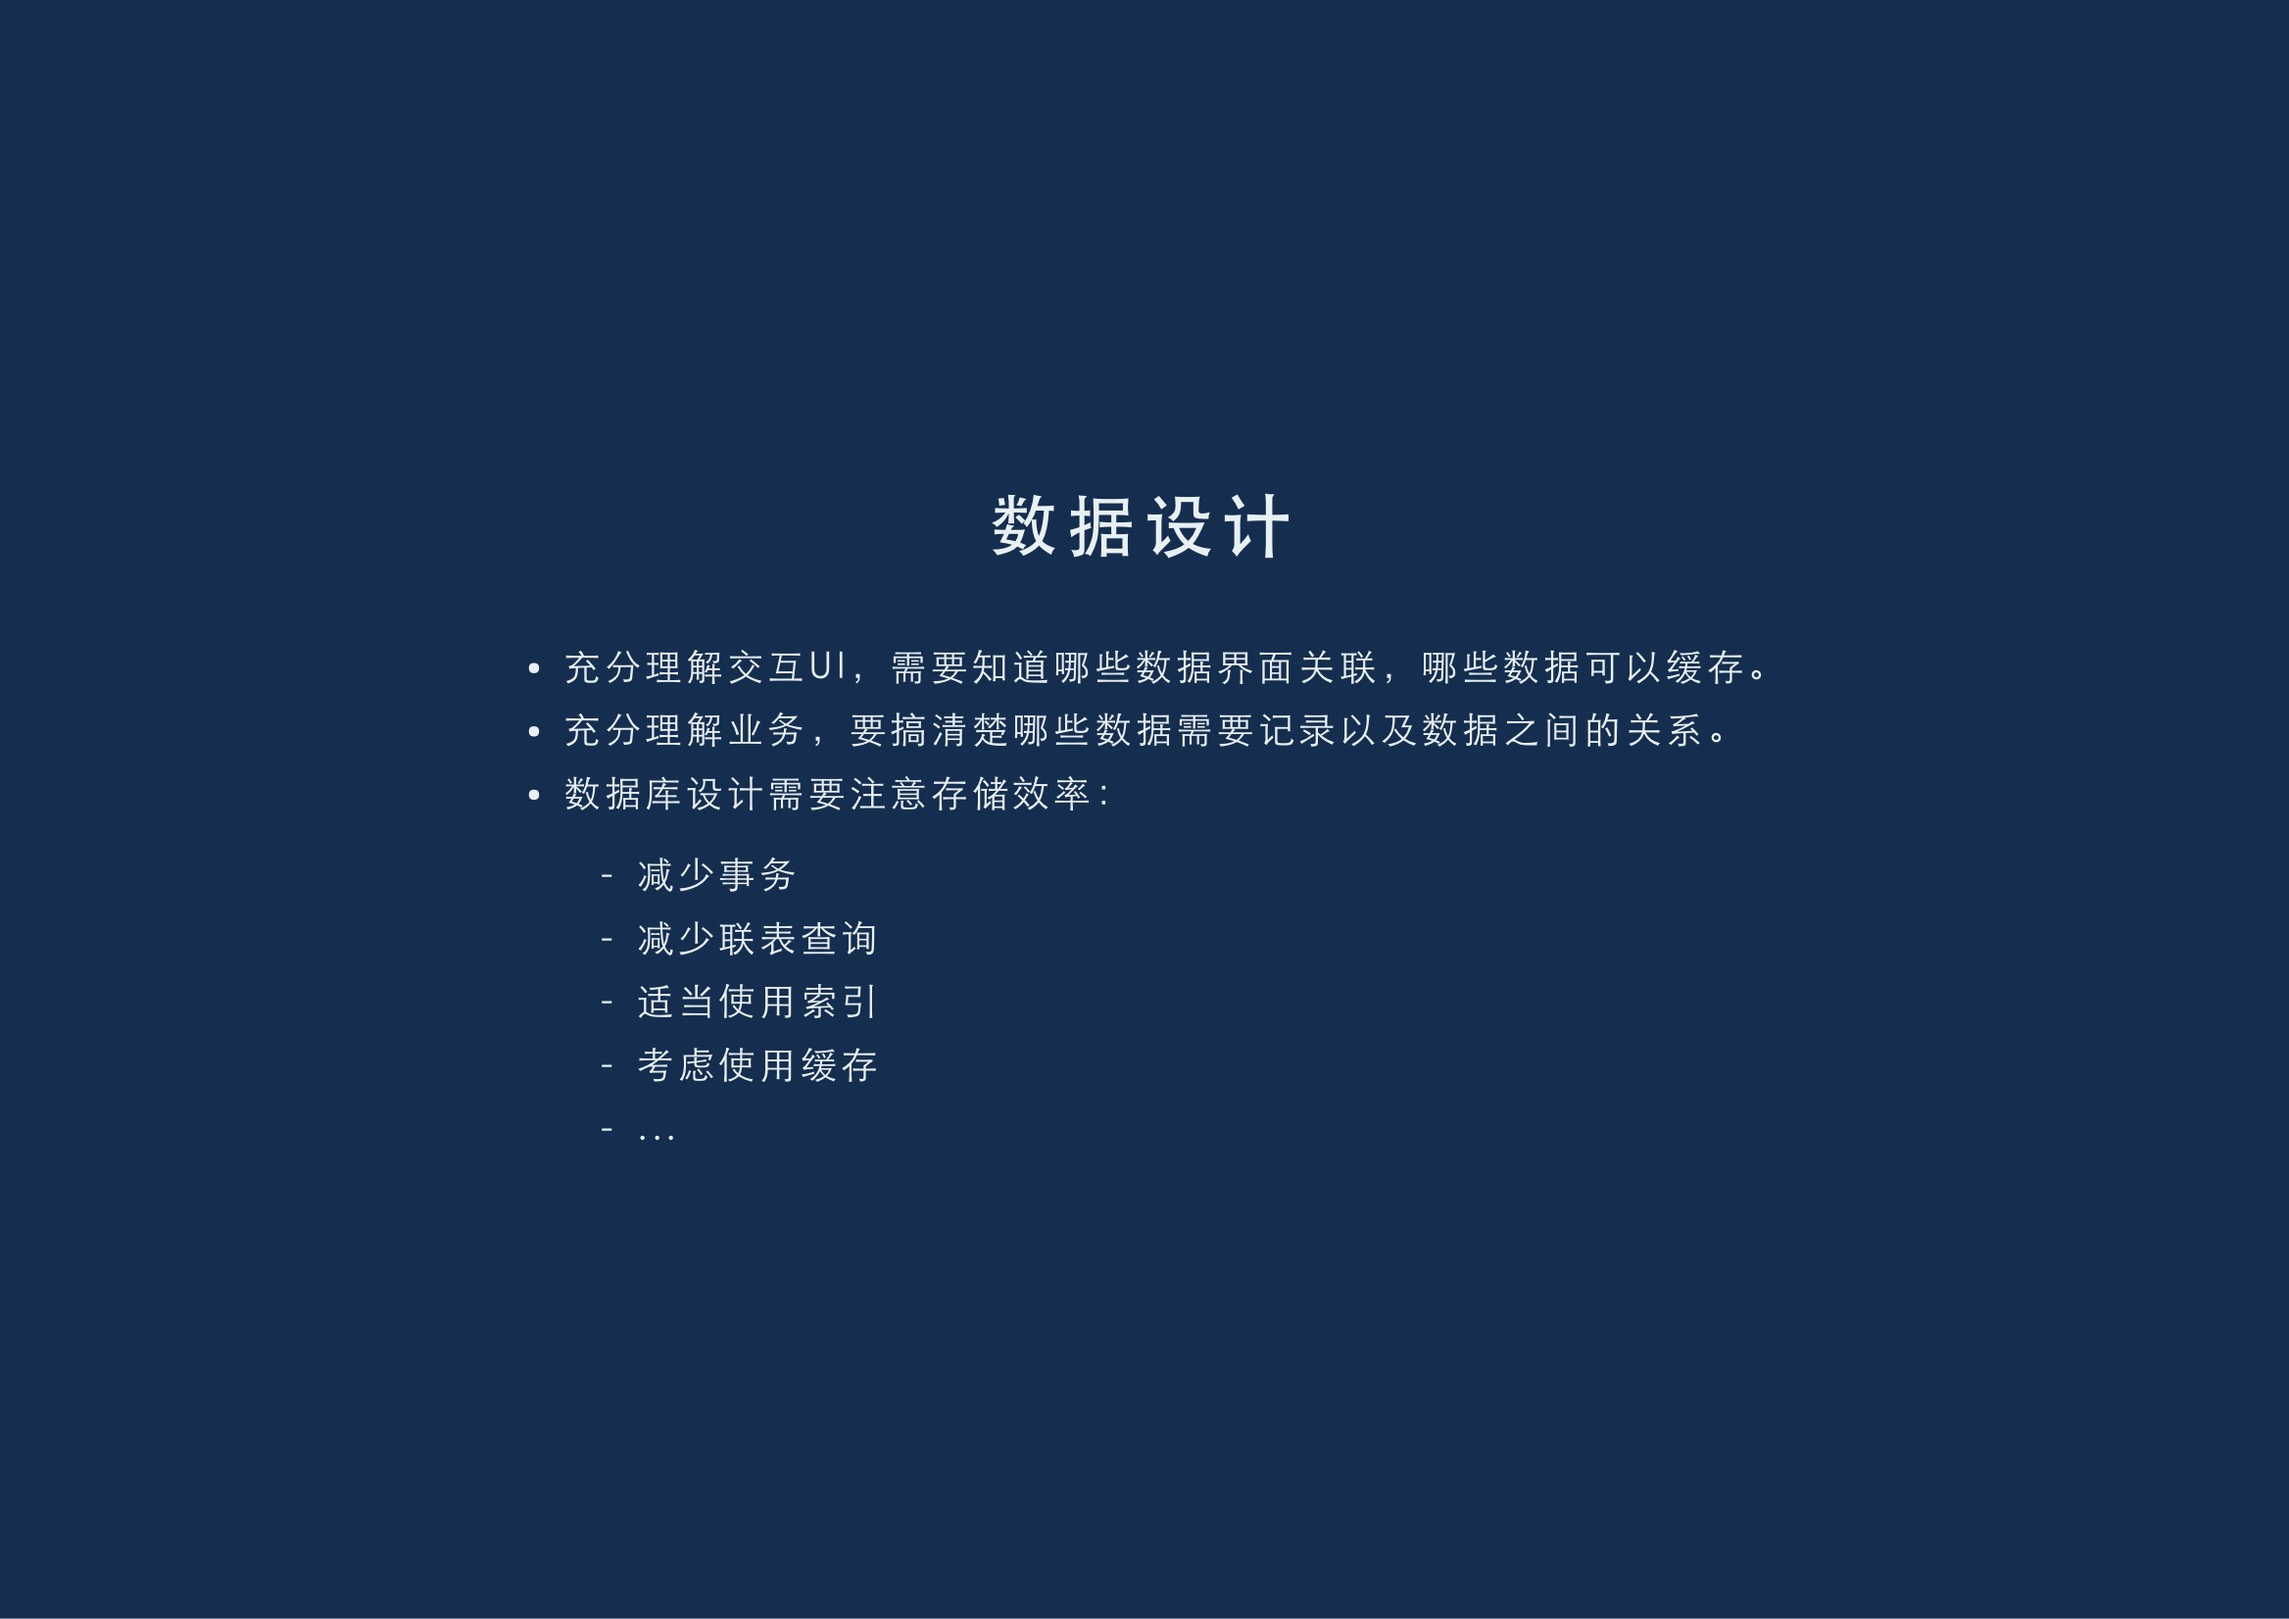
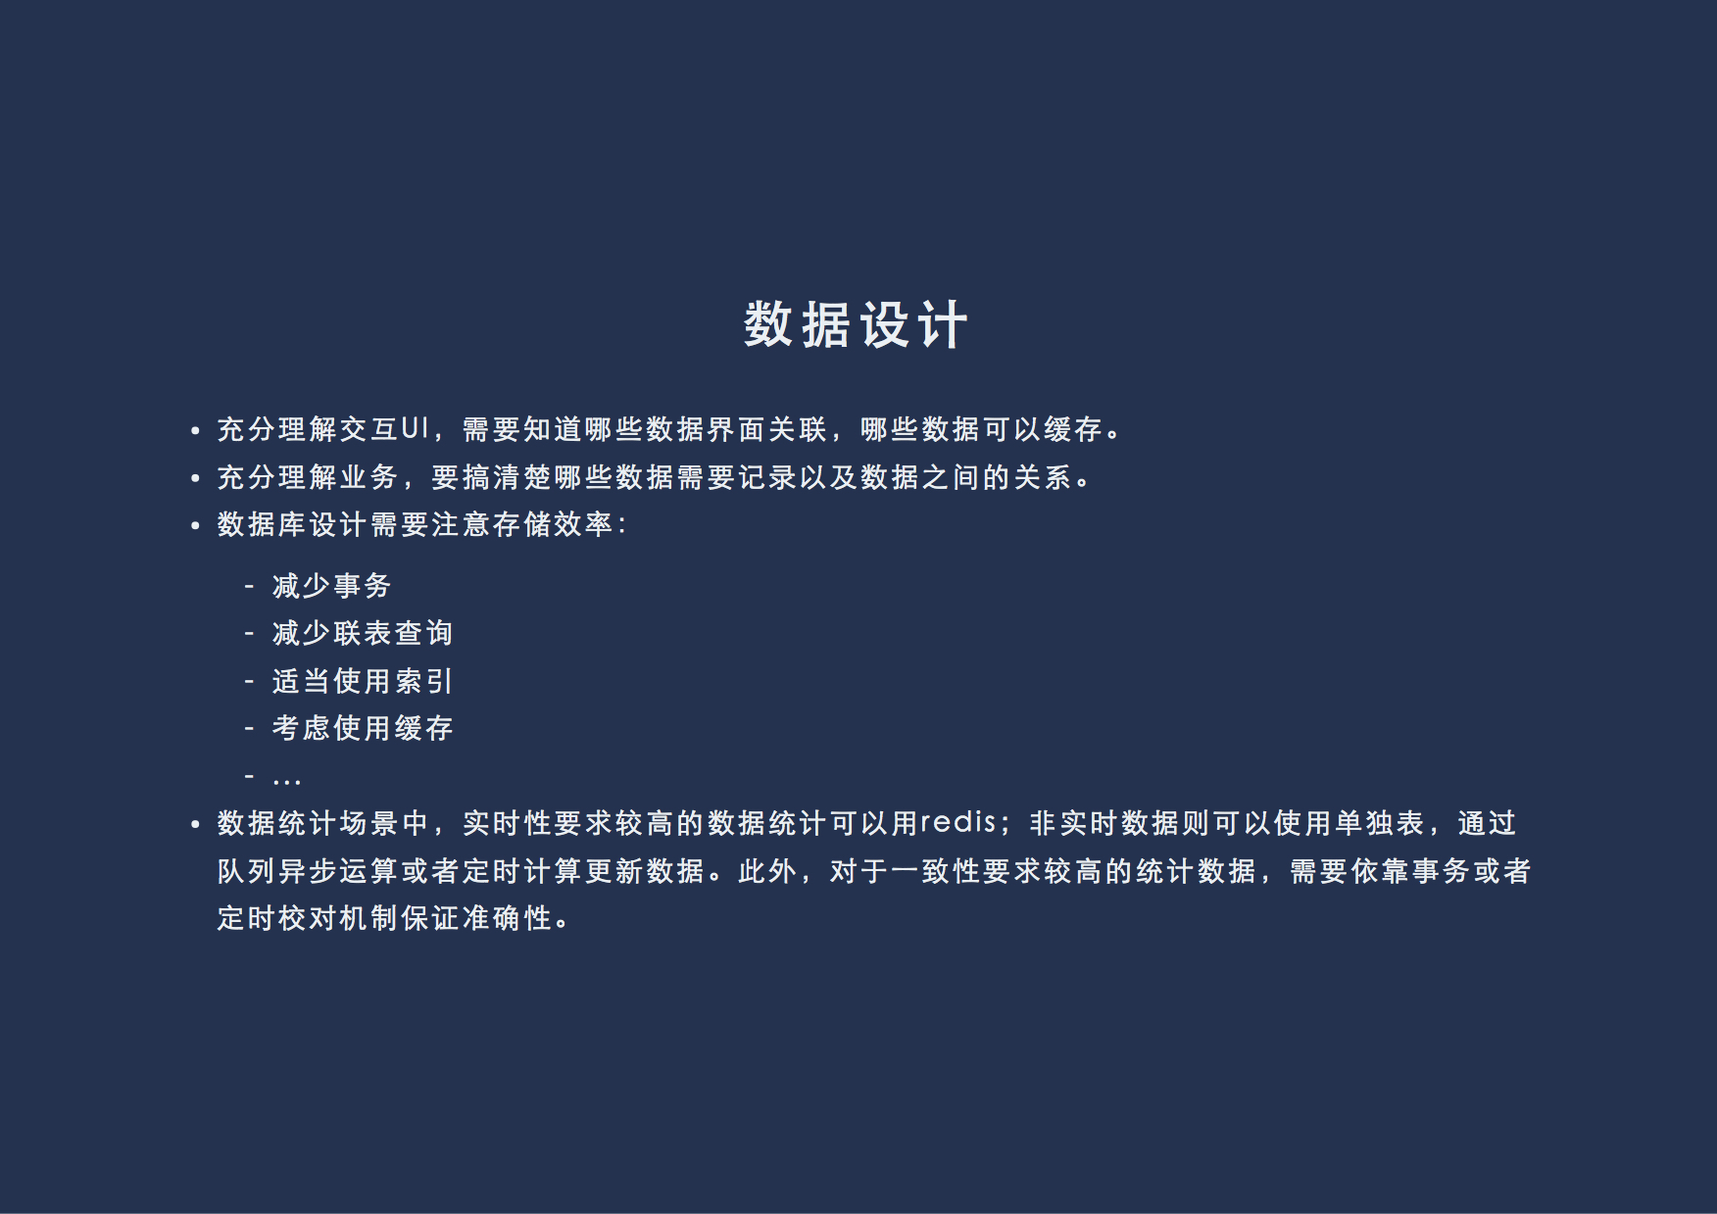
Enhancement: update arch posts

Changed region(s): [[0.1233, 0.2454, 0.8938, 0.7667]]

diff --git a/source/arch-ppt/index.html b/source/arch-ppt/index.html
@@ -168,8 +168,8 @@
 
 <ul>
 <li>访问频率：读写频率；只读且经常被访问的数据可以冗余多份</li>
-<li>对一致性的要求，如实时统计用redis，非实时可以进入队列异步运算</li>
-<li>访问权限：API设计，PO -&gt; VO</li>
+<li>对一致性的要求：一致性要求高的数据需要严格保证准确性。</li>
+<li>访问权限：API设计中根据不同的权限暴露不同粒度的数据。PO-&gt;VO即是对同一事物在不同权限下的描述,</li>
 <li>数据重要性：不可丢失、允许部分丢失、只是缓存、无需保存</li>
 <li>数据保密性：内部可以明文、内部不可明文、可以对外公开</li>
 </ul>
@@ -190,6 +190,7 @@
 <li>考虑使用缓存</li>
 <li>...</li>
 </ul>
+<li>数据统计场景中，实时性要求较高的数据统计可以用redis；非实时数据则可以使用单独表，通过队列异步运算或者定时计算更新数据。此外，对于一致性要求较高的统计数据，需要依靠事务或者定时校对机制保证准确性。</li>
 </li>
 </ul>
 

diff --git a/source/_posts/架构这点事/架构这点事.md b/source/_posts/架构这点事/架构这点事.md
@@ -119,8 +119,8 @@ highlightStyle: monokai_sublime
 ----
 
 - 访问频率：读写频率；只读且经常被访问的数据可以冗余多份
-- 对一致性的要求，如实时统计用redis，非实时可以进入队列异步运算
-- 访问权限：API设计，PO -> VO
+- 对一致性的要求：一致性要求高的数据需要严格保证准确性。
+- 访问权限：API设计中根据不同的权限暴露不同粒度的数据。PO->VO即是对同一事物在不同权限下的描述, 
 - 数据重要性：不可丢失、允许部分丢失、只是缓存、无需保存
 - 数据保密性：内部可以明文、内部不可明文、可以对外公开
 
@@ -136,6 +136,7 @@ highlightStyle: monokai_sublime
     * 适当使用索引
     * 考虑使用缓存
     * ...
+- 数据统计场景中，实时性要求较高的数据统计可以用redis；非实时数据则可以使用单独表，通过队列异步运算或者定时计算更新数据。此外，对于一致性要求较高的统计数据，需要依靠事务或者定时校对机制保证准确性。
 
 [slide]
 ## 什么是架构师
